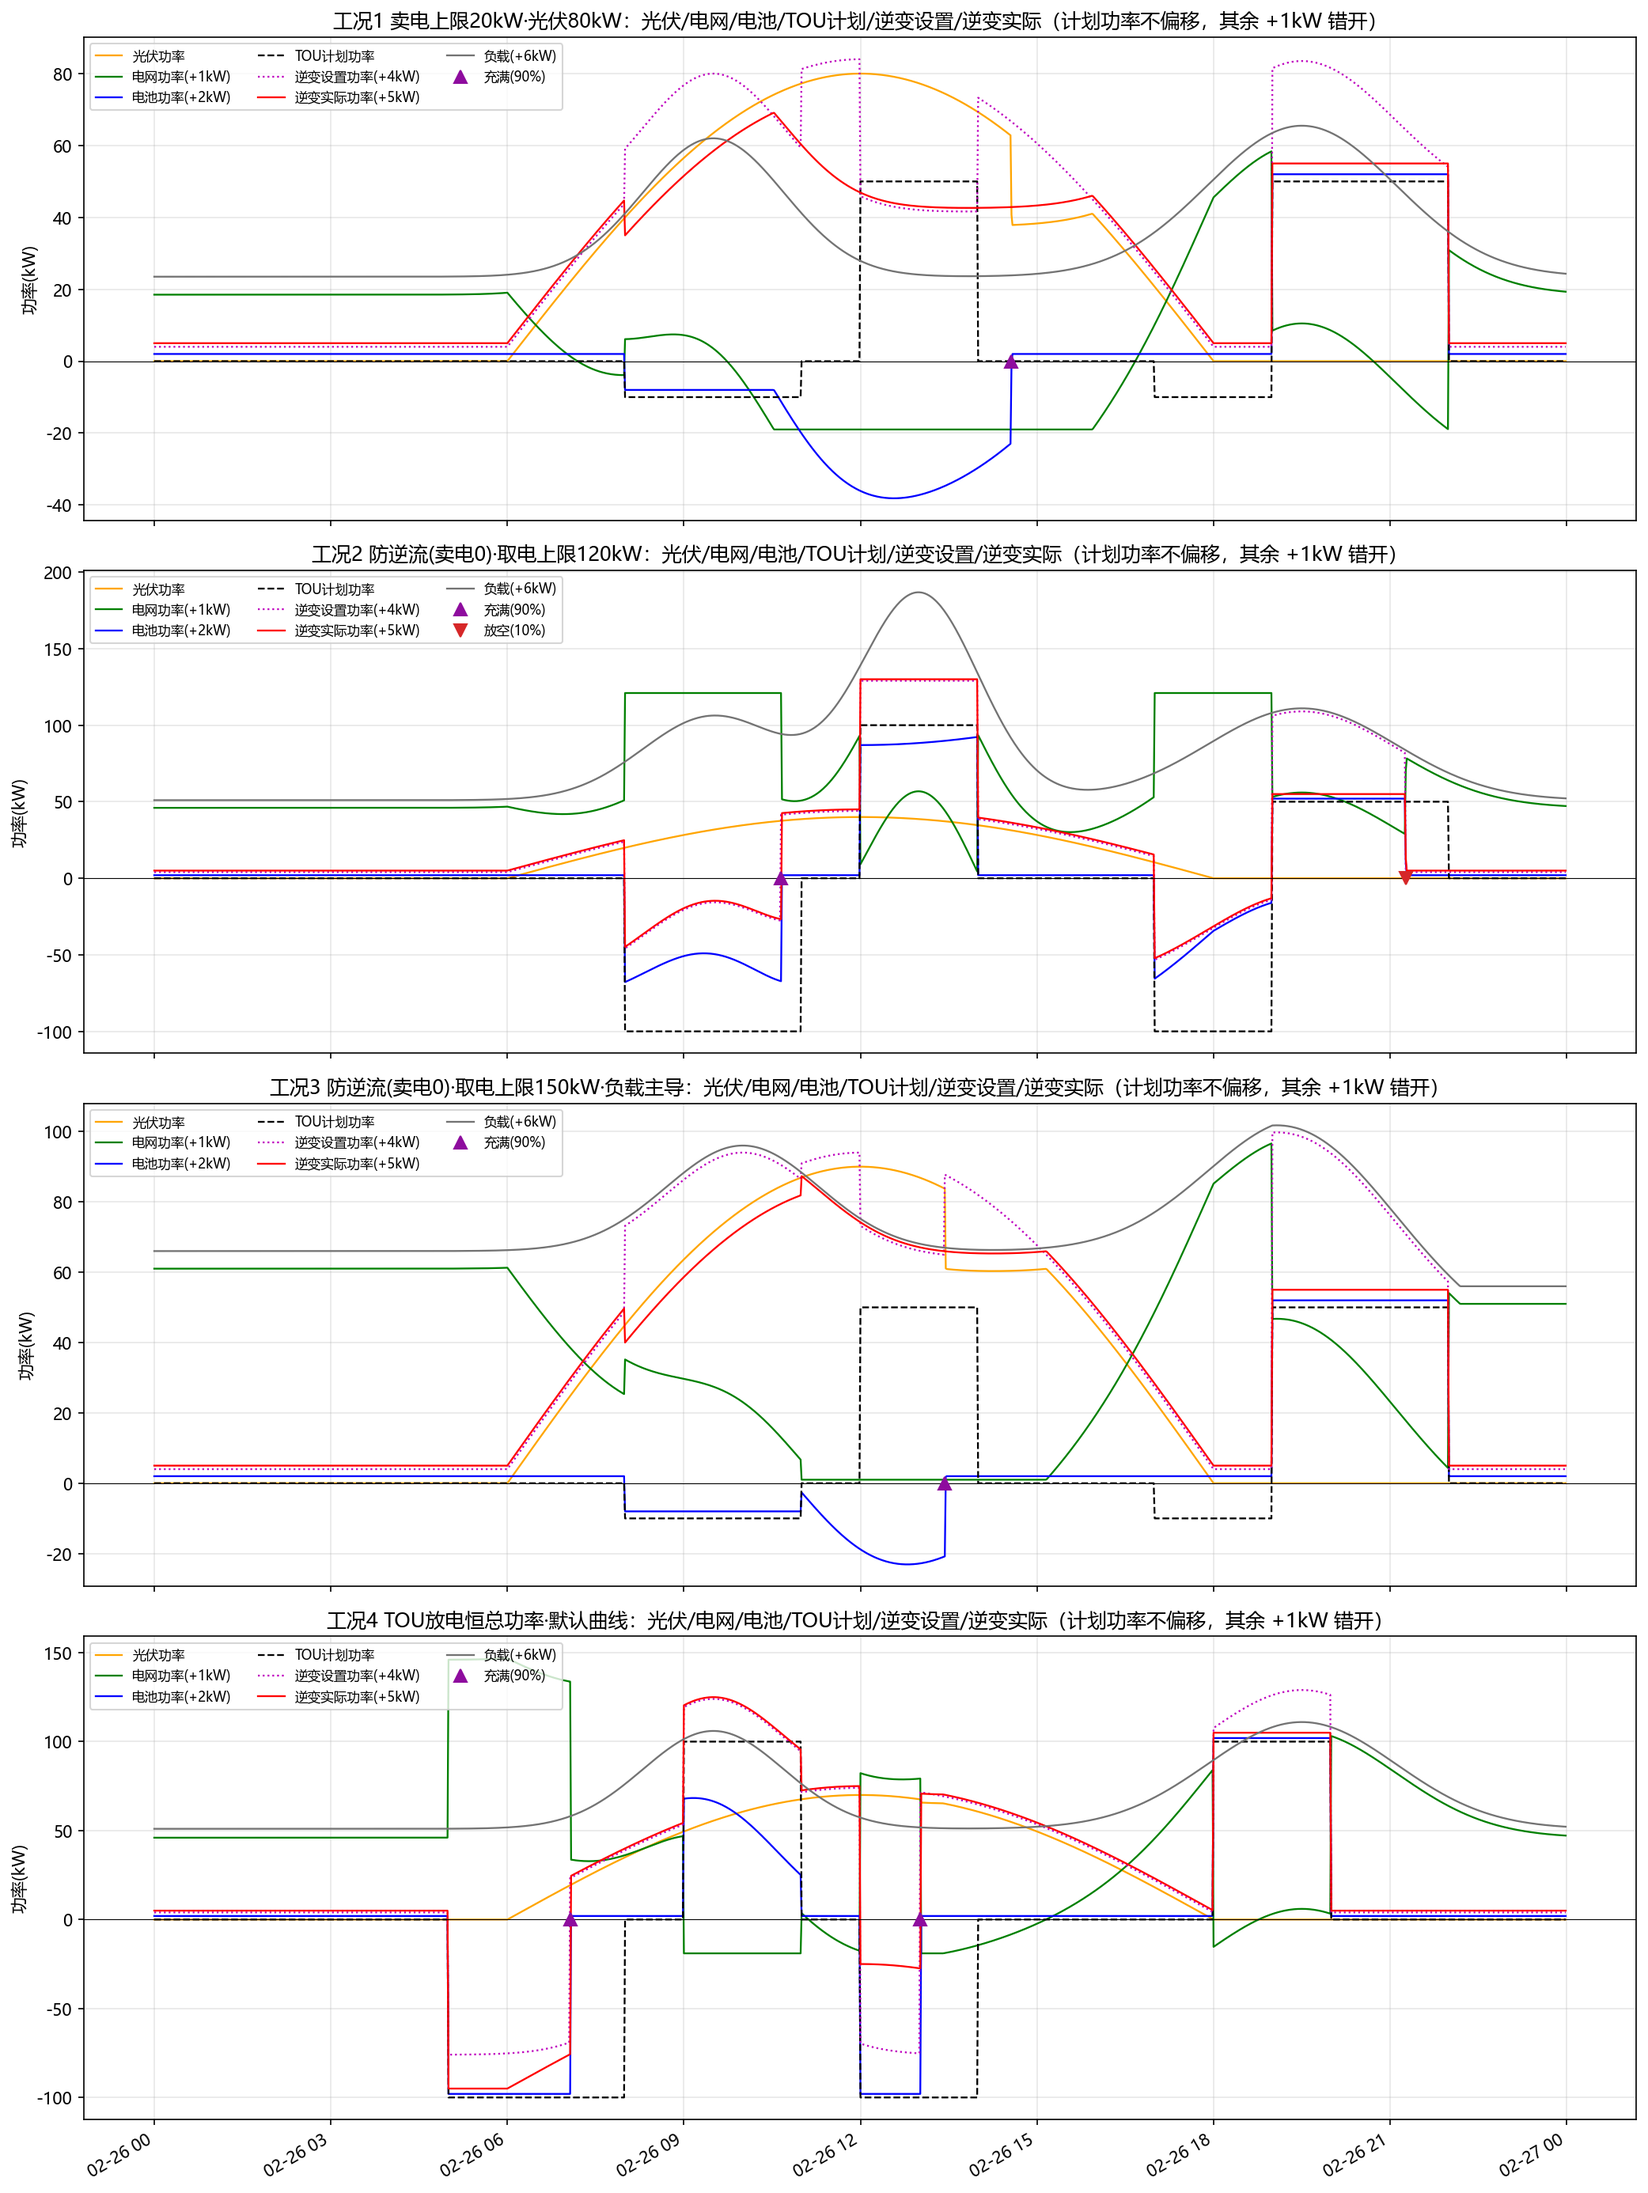
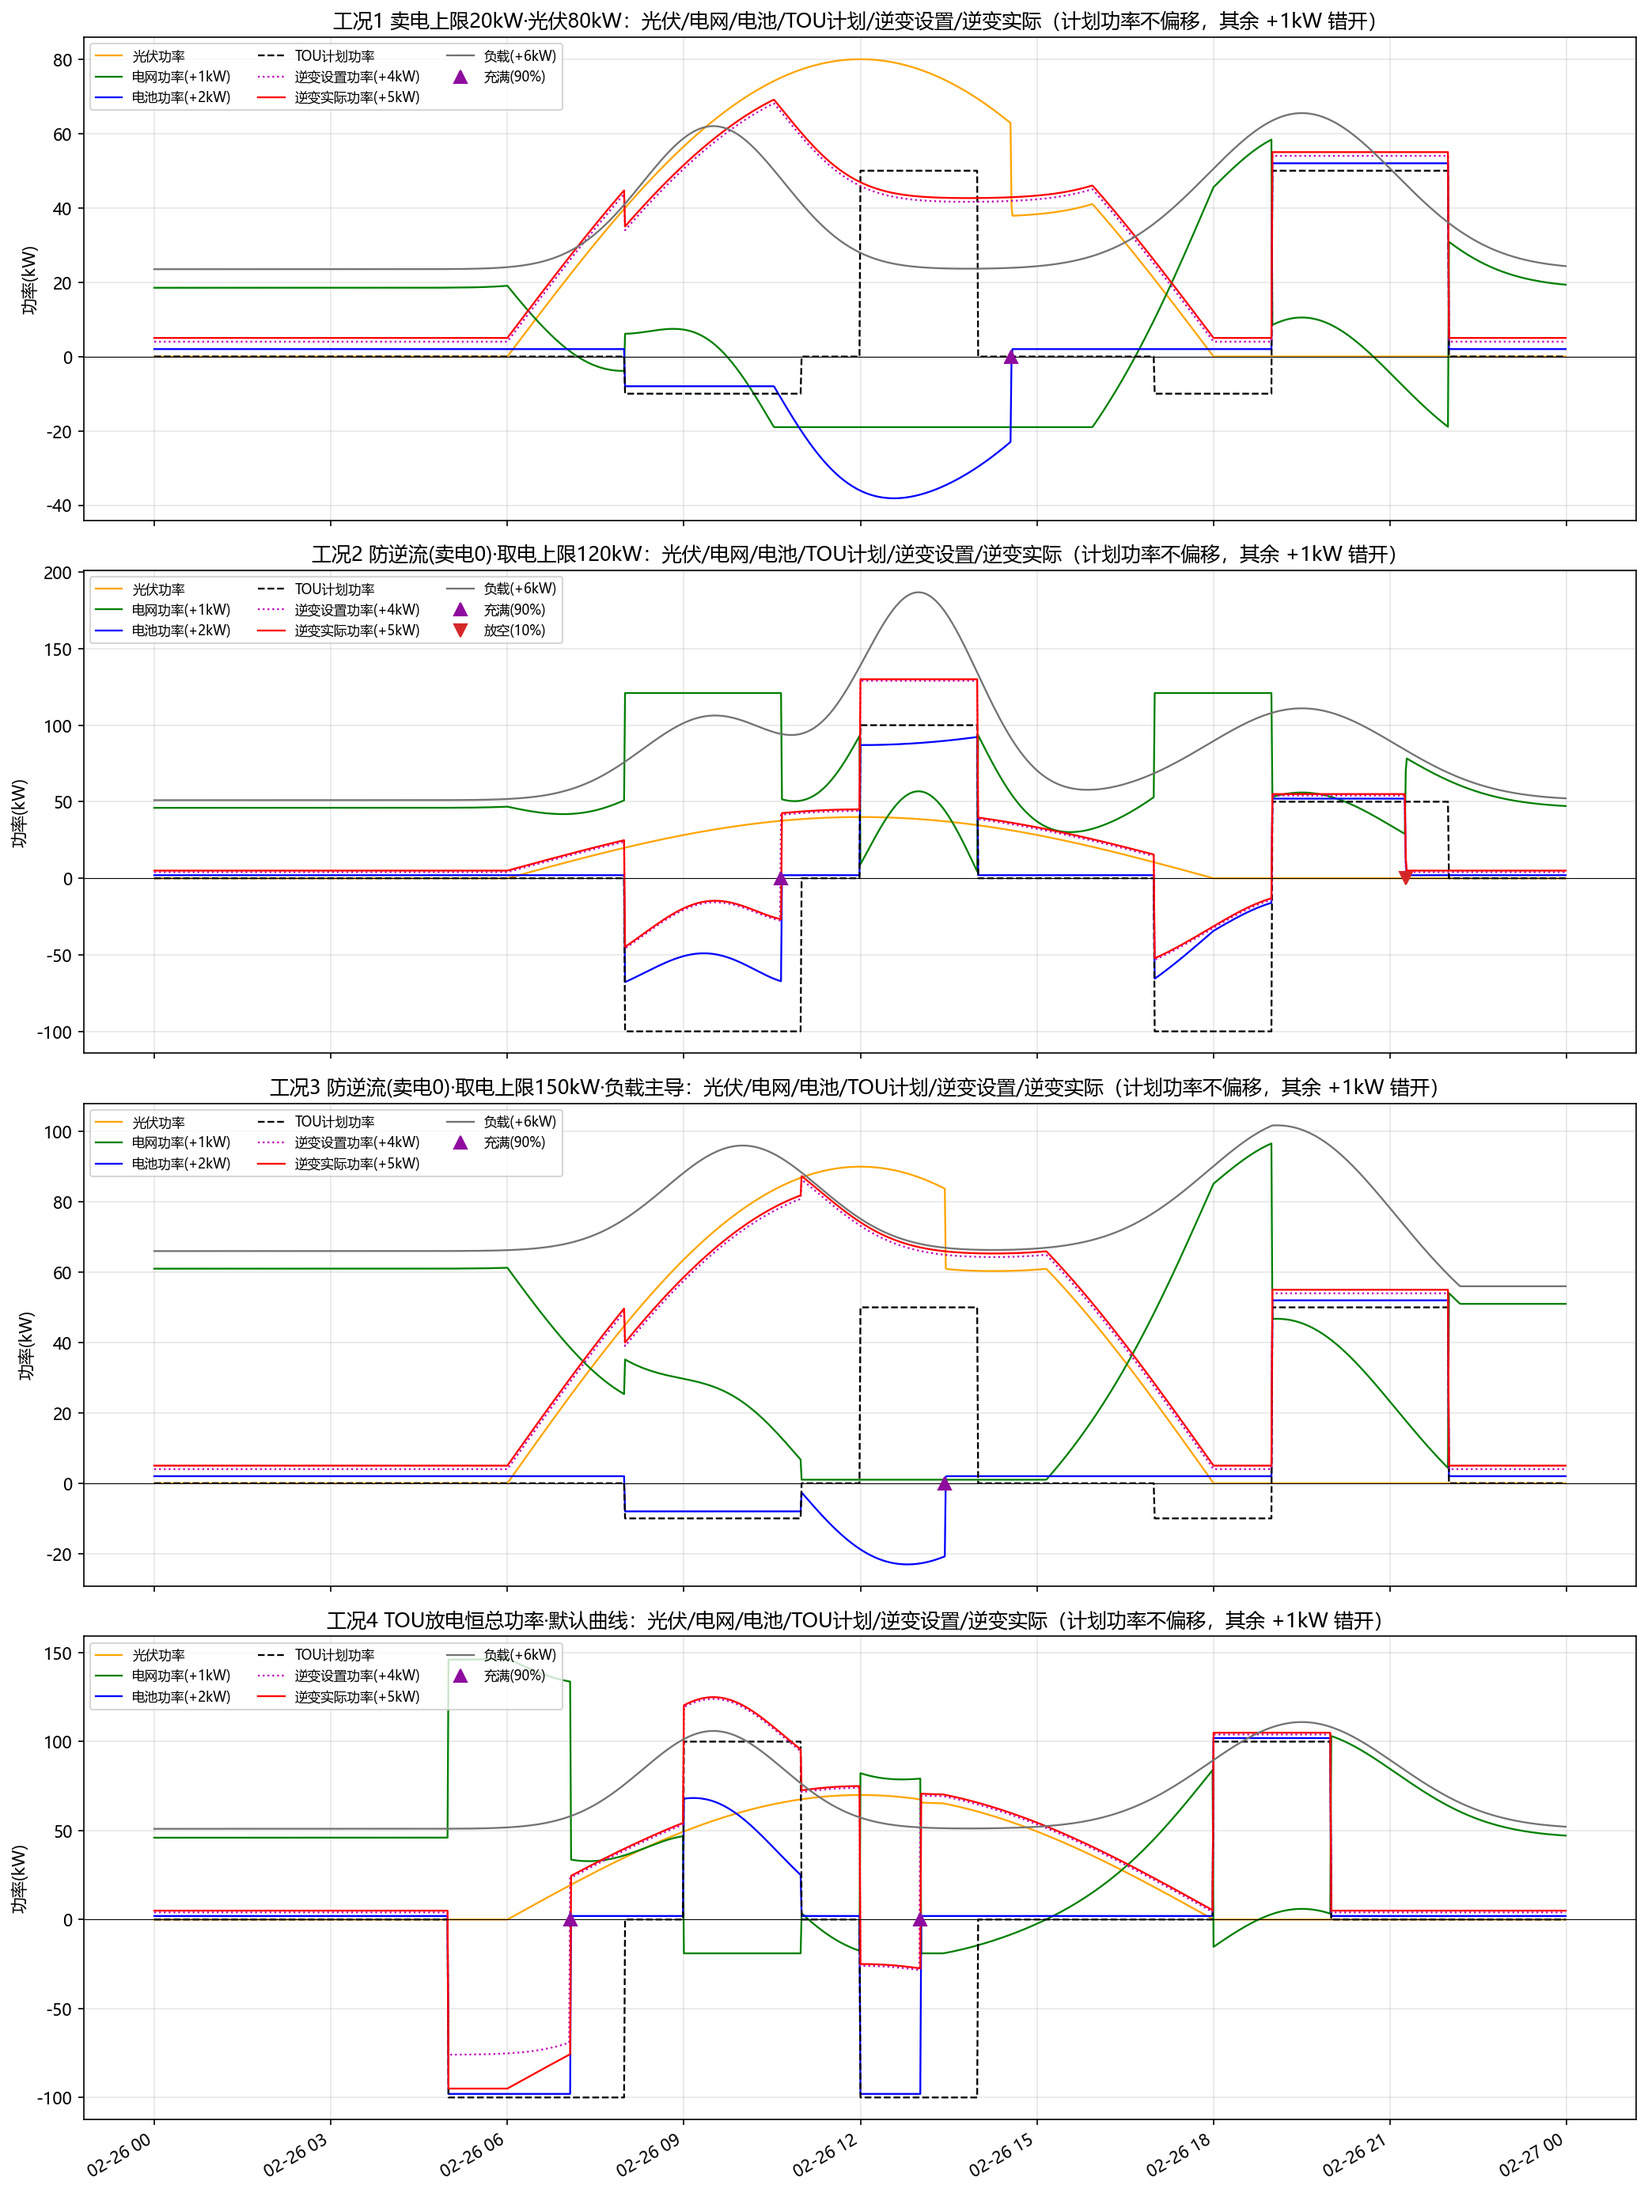
错误的图标

diff --git a/main.py b/main.py
@@ -217,31 +217,27 @@ def plot_all_cases(results, kind, fname=None):
             # 图二（提示词“第二张图绘制内容，EMS怎么控制电池” L91-99）：
             #   数据：光伏功率/电网功率/电池功率/TOU计划功率/逆变设置功率/逆变实际功率/负载 + 充满放空标识；
             #   每条曲线按 1kW 递增错开（第止k 条 重1叠（图例标注偏移量）。
-            #   逆变设置功率=限制功率（闭环，随取电/馈电限制，不取决于计划）：
-            #     充电：受取电限制 → −(取电上限 I − 负载)；PV>计划时反转为放电方向（触发不变）；
-            #     待机：闭环使电池口=0 → 逆变设置随 PV 上升 min(PV, 逆变额定)；
-            #     放电/馈网：受馈电限制 → min(馈电上限 F + 负载, 逆变额定)；
-            #     约束：取电≤I、≤逆变额定；SOC 充满后电池目标=0（不充电不放电），放空不放电。
+            #   逆变设置功率=限制功率（闭环跟随电网口功率以满足计划）：
+            #     目标：电网口功率 g 使电池口=计划 → g = 负载 − 光伏实际 − 计划；
+            #     由交流平衡 逆变设置 = 负载 − g = 光伏实际 + 计划；
+            #     上下限受馈网/取电限制：馈网≤F → 逆变设置 ≤ 负载+F；取电≤I → 逆变设置 ≥ 负载−I；并≤逆变额定。
+            #     SOC 充满后电池目标=0（不充不放），放空不放电。
             m = r["model"]
             inv_rated = m.inverter_rated_kw
             i_lim = m.grid_import_limit_kw if m.grid_import_limit_kw is not None else inv_rated
             f_lim = 0.0 if m.export_limit_kw is None else max(m.export_limit_kw, 0.0)
             cmd = np.asarray(r["cmd"], float)
             load = np.asarray(r["load"], float)
-            pv_av = np.asarray(r["pv"], float)                       # 光伏可用功率
+            pv_used = np.asarray(s["pv"]["光伏功率(kW)"], float)     # 光伏实际利用
             soc = np.asarray(s["battery"]["储能SOC(%)"], float)
             full = soc >= (m.soc_max - 1e-9)                         # 充满：电池目标=0
             empty = soc <= (m.soc_min + 1e-9)                        # 放空：不放电
-            pchg = np.abs(cmd)
-            idle_loop = np.minimum(pv_av, inv_rated)                 # 待机闭环：电池口=0，随PV上升
-            chg_loop = -np.maximum(i_lim - load, 0.0)                # 充电：受取电限制（不取决于计划）
-            feed_loop = np.minimum(f_lim + load, inv_rated)          # 馈网/放电：受馈电限制
-            inv_set = np.where(cmd < 0.0, np.where(pv_av > pchg, feed_loop, chg_loop),
-                               np.where(cmd > 0.0, feed_loop, idle_loop))
-            inv_set = np.where(full, idle_loop, inv_set)             # 目标约束：充满后不充不放
-            inv_set = np.where(empty & (cmd > 0.0), idle_loop, inv_set)
-            inv_set = np.clip(inv_set, -inv_rated, inv_rated)
-            inv_set = np.maximum(inv_set, -min(i_lim, inv_rated))    # 逆变口取电限制
+            plan_eff = np.where(full, 0.0, cmd)
+            plan_eff = np.where(empty & (plan_eff > 0.0), 0.0, plan_eff)
+            inv_raw = pv_used + plan_eff                             # 闭环：逆变设置 = 光伏实际 + 计划
+            lower = np.maximum(load - i_lim, -inv_rated)             # 取电限制(下限) + 逆变额定
+            upper = np.minimum(load + f_lim, inv_rated)              # 馈网限制(上限) + 逆变额定
+            inv_set = np.clip(inv_raw, lower, upper)
             raw = [("光伏功率", np.asarray(s["pv"]["光伏功率(kW)"], float)),
                    ("电网功率", np.asarray(s["grid"]["电网功率(kW)"], float)),
                    ("电池功率", np.asarray(s["battery"]["电池功率(kW)"], float)),
@@ -343,9 +339,8 @@ def render_report(results, fp_fig1, fp_fig2):
     A("")
     A("> 说明：按提示词.md“第二张图绘制内容，EMS怎么控制电池”L91-99 的**闭环限制**重算，工况数值与图一相同；"
       "为防止重叠，TOU计划功率不偏移(+0)、其余曲线整体 +k kW 显示（图例已标注偏移量，充满▲/放空▼标于 y=0 未偏移）。"
-      "逆变设置功率(限制功率)随**取电/馈电限制**（不取决于计划）：充电 `−(取电上限 I−负载)`，PV>计划时反转为放电方向；"
-      "待机=闭环使电池口=0 `min(PV, 逆变额定)`（随 PV 增加而增加）；放电/馈网 `min(馈电上限 F+负载, 逆变额定)`；"
-      "约束：取电≤I、≤逆变额定；SOC 充满后电池目标=0（不充电不放电），放空不放电。")
+      "逆变设置功率(限制功率)=**闭环跟随电网口功率以满足计划**：由交流平衡 逆变设置 = 光伏实际 + 计划（即电网口 g=负载−光伏−计划）；"
+      "上下限受馈网/取电限制：馈网≤F → ≤负载+F，取电≤I → ≥负载−I，并≤逆变额定；SOC 充满后电池目标=0（不充不放）、放空不放电。")
     A("> 校验：逐分钟满足 `光伏实际+电池实际=逆变实际`（max err≤0.001kW，电池负充正放）；曲线原始值未缩放，仅按上述规则平移显示。")
     A("")
     A("## 各工况说明")

diff --git a/ems_result/EMS测试报告.md b/ems_result/EMS测试报告.md
@@ -1,6 +1,6 @@
 # 光储一体机(混逆) EMS/TOU 控制仿真报告
 
-- 生成时间：2026-09-11 19:41:53
+- 生成时间：2026-09-11 19:50:21
 - 模型：`mode_hybrid.HybridInverter`；额定 125kW；PV 2 倍超配 250kW；电池 125kW/260kWh；SOC [10%,90%]
 - TOU 控制：充电(08-11、17-19) 10kW / 放电(12-14、19-22) 50kW / 其余待机；**负充正放**
 - EMS 策略（提示词.md）：光伏供给优先级 **负载 > 电网馈网 > 电池充电**（富余先馈网≤F，超出馈网上限/防逆流的富余才充电池），馈网电能优先级 光伏>电池、电池充电电源优先级 光伏>电网；馈网上限 F（正=卖电上限，0=防逆流），约束内尽量多卖电且**不突破计划放电**；取电上限 I（0=不取电），**负载用电+充电总取电不超 I**，约束内尽量少取电；光伏消纳优先级高于 TOU 计划（充/放/待机均适用），富余削减 TOU 放电、可反转为充电（≤1 倍额定）；TOU 充电在取电上限允许下由电网补足按计划执行，超限则削减充电功率；SOC 到限功率清零；TOU 放电不突破计划
@@ -24,7 +24,7 @@
 
 ![图二](EMS_图二_设置与执行_曲线.png)
 
-> 说明：按提示词.md“第二张图绘制内容，EMS怎么控制电池”L91-99 的**闭环限制**重算，工况数值与图一相同；为防止重叠，TOU计划功率不偏移(+0)、其余曲线整体 +k kW 显示（图例已标注偏移量，充满▲/放空▼标于 y=0 未偏移）。逆变设置功率(限制功率)随**取电/馈电限制**（不取决于计划）：充电 `−(取电上限 I−负载)`，PV>计划时反转为放电方向；待机=闭环使电池口=0 `min(PV, 逆变额定)`（随 PV 增加而增加）；放电/馈网 `min(馈电上限 F+负载, 逆变额定)`；约束：取电≤I、≤逆变额定；SOC 充满后电池目标=0（不充电不放电），放空不放电。
+> 说明：按提示词.md“第二张图绘制内容，EMS怎么控制电池”L91-99 的**闭环限制**重算，工况数值与图一相同；为防止重叠，TOU计划功率不偏移(+0)、其余曲线整体 +k kW 显示（图例已标注偏移量，充满▲/放空▼标于 y=0 未偏移）。逆变设置功率(限制功率)=**闭环跟随电网口功率以满足计划**：由交流平衡 逆变设置 = 光伏实际 + 计划（即电网口 g=负载−光伏−计划）；上下限受馈网/取电限制：馈网≤F → ≤负载+F，取电≤I → ≥负载−I，并≤逆变额定；SOC 充满后电池目标=0（不充不放）、放空不放电。
 > 校验：逐分钟满足 `光伏实际+电池实际=逆变实际`（max err≤0.001kW，电池负充正放）；曲线原始值未缩放，仅按上述规则平移显示。
 
 ## 各工况说明
